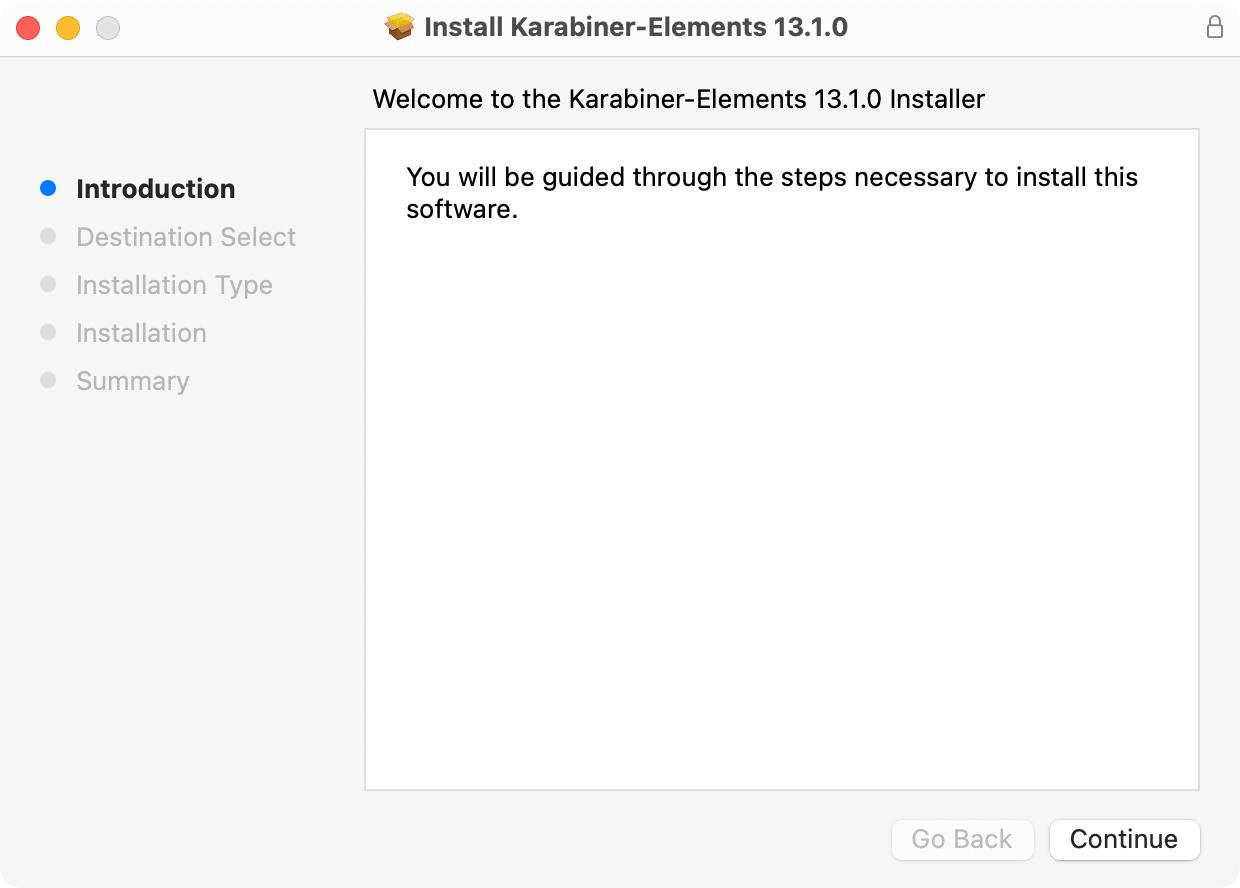
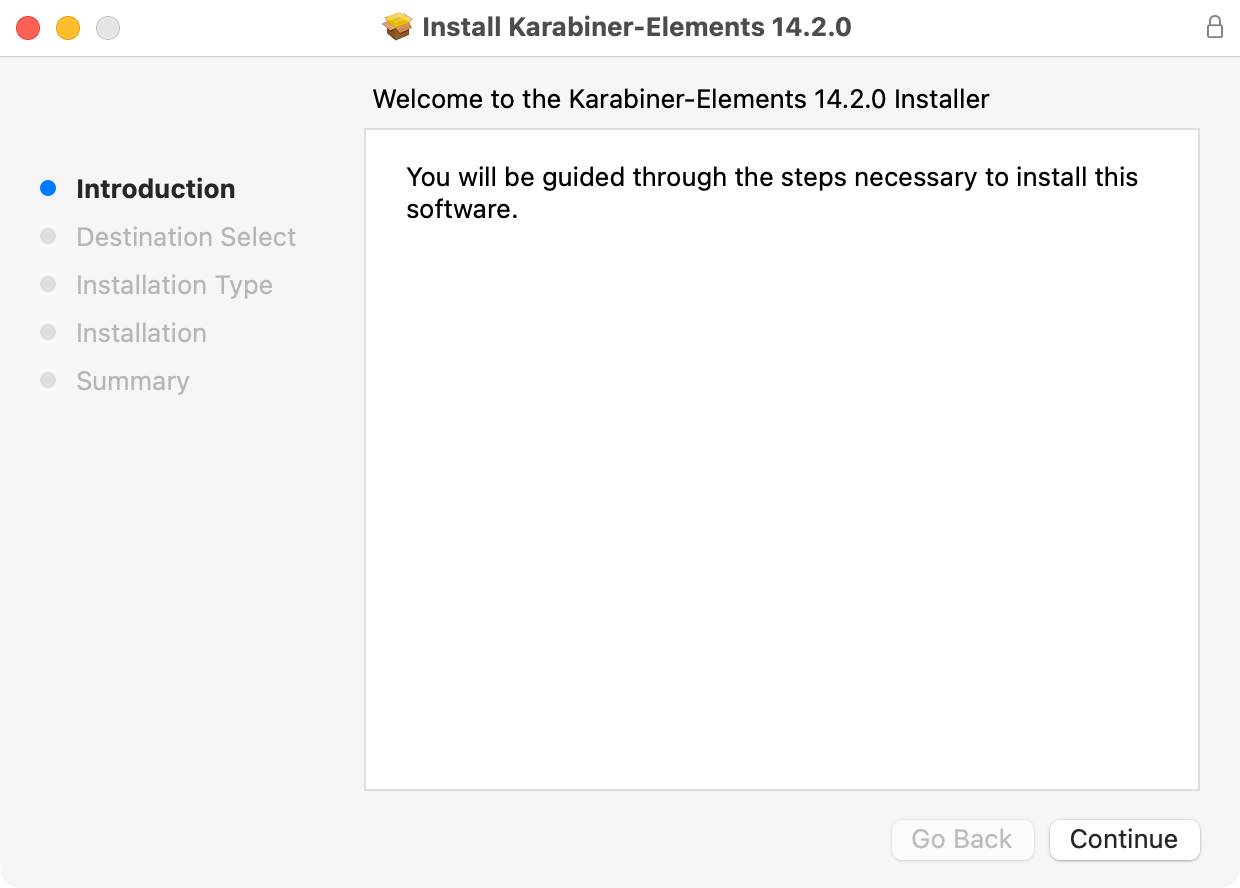
Update images

diff --git a/sites/karabiner-elements/content/en/docs/getting-started/installation/index.md b/sites/karabiner-elements/content/en/docs/getting-started/installation/index.md
@@ -36,8 +36,8 @@ Please follow [this instruction](../../help/troubleshooting/kext-allow-button-do
 
 1.  **Two Keystroke Receiving** alerts will be shown on macOS Catalina or later after you allow the kernel extension.
 2.  Press **Open System Preferences** button on both alerts.
-    {{< local-image src="images/catalina-karabiner-grabber@2x.png" >}}
-    {{< local-image src="images/catalina-karabiner-observer@2x.png" >}}
+    {{< local-image src="images/karabiner-grabber@2x.png" >}}
+    {{< local-image src="images/karabiner-observer@2x.png" >}}
 3.  System Preferences will be open after you press the Open System Preferences button.<br/>
     Choose **Privacy > Input Monitoring**, and then enable **karabiner_grabber** and **karabiner_observer**. <br />
     (You have to unlock configuration by the left bottom icon.)
